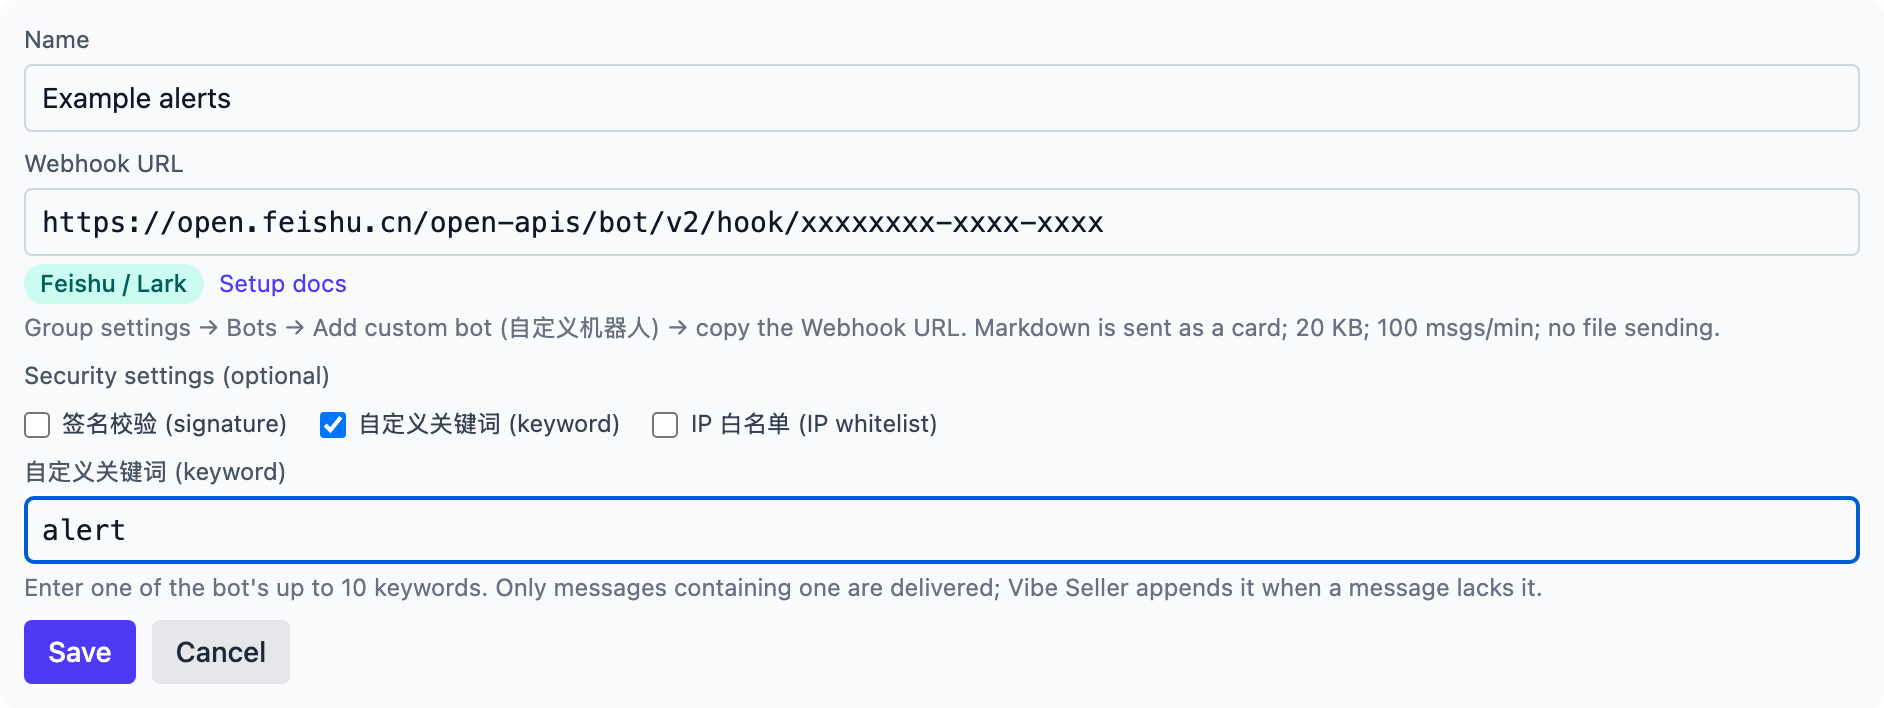
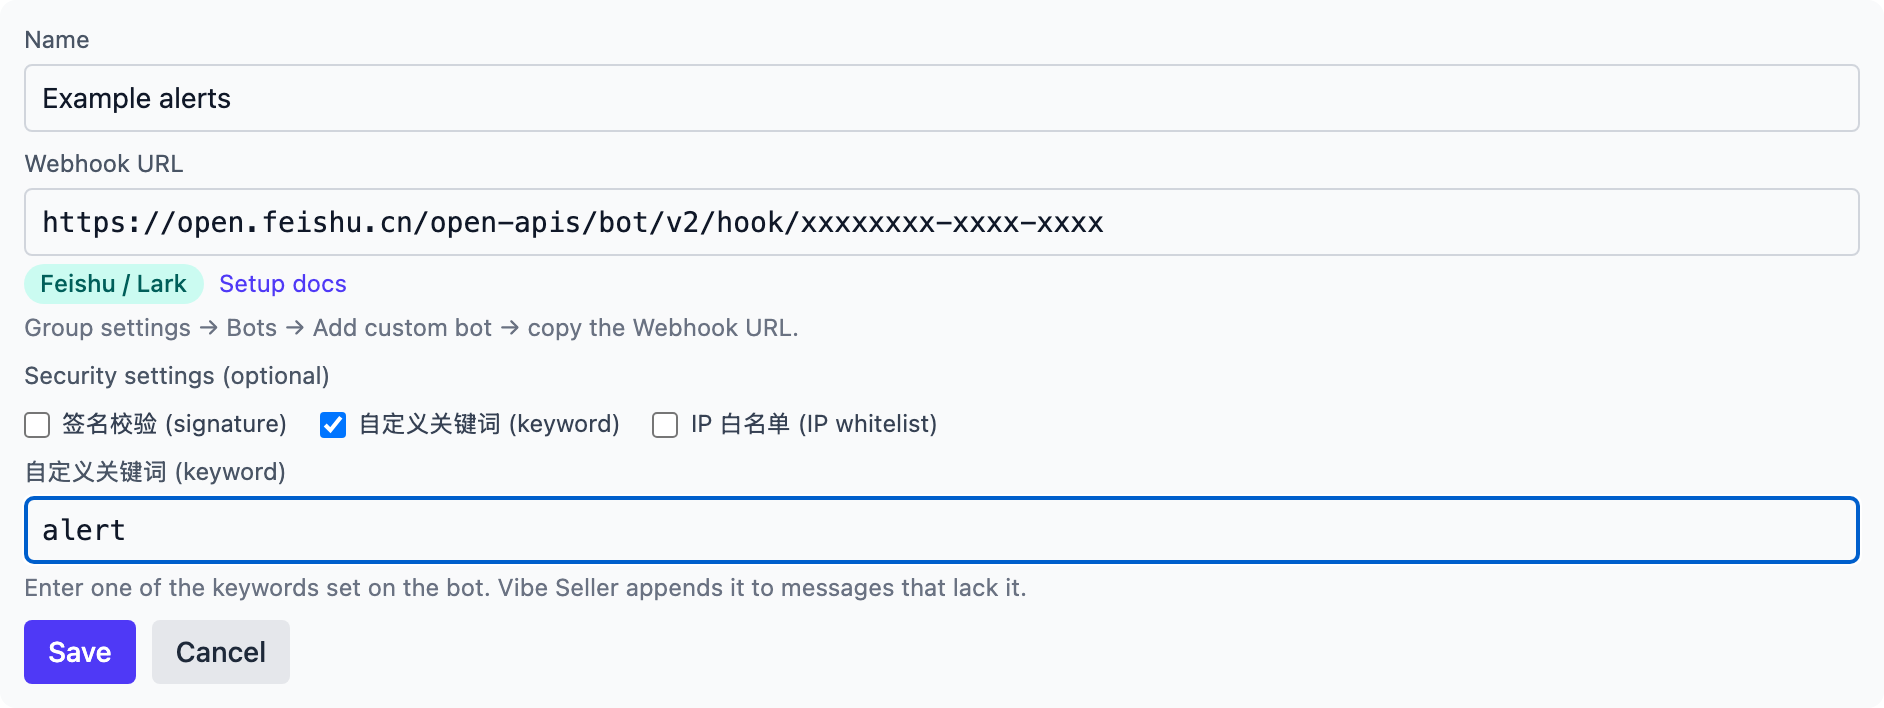
fix(chat-bots): the form hint says only where to get the URL
Review round 2 on PR #249 (owner: platform trivia in the form — size
limits, markdown titles, "URL is the credential" — has nothing to do
with the user or Vibe Seller). The per-platform hint under the badge
is now exactly the where-to-copy-the-URL path, zh and en. The security
field hints lost their platform mechanics too (keyword counts, the
timestamp signature, the delivery rule, the allowlist entry shapes) —
what remains is what to paste where and what Vibe Seller does with it.
The docs' limits sections are untouched.

Tests that pinned the old hint text now pin the new spec strings; all
8 chatbots_form_* shots are reshoot from this build (DOM asserted
before capture, Save/Cancel row in the pixels), and every page that
shows one describes what the shot shows, including the badge hint.

Changed region(s): [[0.2463, 0.435, 0.9236, 0.4972], [0.0924, 0.8079, 0.8312, 0.839]]

diff --git a/frontend/src/__tests__/chatBotSection.test.tsx b/frontend/src/__tests__/chatBotSection.test.tsx
@@ -232,9 +232,10 @@ describe('ChatBotSection', () => {
     expect(
       await screen.findByTestId('chat-bot-platform-badge'),
     ).toHaveTextContent('DingTalk')
-    // Per-platform hint replaces the generic one.
-    expect(screen.getByTestId('chat-bot-url-hint').textContent).toMatch(
-      /自定义机器人|Add robot/,
+    // Per-platform hint replaces the generic one — and says ONLY where
+    // to get the URL (the owner's spec, no platform trivia).
+    expect(screen.getByTestId('chat-bot-url-hint').textContent).toBe(
+      'Group settings → Bots → Add custom robot → copy the Webhook URL.',
     )
   })
 

diff --git a/docs/chat-bots.md b/docs/chat-bots.md
@@ -72,15 +72,16 @@ Vibe Seller 粘贴并测试。差别只在入口位置和安全设置。
 
 2. 填写**名称**（例如「运营告警」，方便日后一眼认出）；把获取到的
    **Webhook URL** 整段粘贴进去。平台会根据 URL 自动识别并显示标签，
-   旁边还有该平台的说明链接：
-   ![添加机器人：粘贴企业微信 Webhook URL](images/chatbots_form_wecom_zh.png)
+   标签下一行提示去哪里复制 Webhook URL（例如钉钉：「群设置 → 机器人 →
+   添加自定义机器人 → 复制 Webhook URL」），旁边还有该平台的说明链接：
+   ![添加机器人表单：名称 + Webhook URL，没有安全设置一栏，底部是保存/取消](images/chatbots_form_wecom_zh.png)
 
 3. 表单下方只显示**该平台**自己的安全设置。钉钉是
    「安全设置（至少选一项）」——至少勾选你在平台上实际设置的一项
    （机器人同时启用多种时全部勾上），只有勾选项会显示输入栏；飞书是
    「安全设置（可选）」，勾选才显示对应输入栏；企业微信和 Slack 没有
    安全设置一栏：
-   ![添加钉钉机器人：安全设置选加签并粘贴密钥](images/chatbots_form_dingtalk_zh.png)
+   ![钉钉表单：「安全设置（至少选一项）」勾选加签并粘贴密钥，底部是保存/取消](images/chatbots_form_dingtalk_zh.png)
     - **加签 / 签名校验**：把 `SEC` 开头的密钥（钉钉）或飞书给出的
       签名密钥填进勾选项的输入栏。
     - **自定义关键词**：填写你在平台上设置的关键词之一。

diff --git a/docs/chat-bots.en.md b/docs/chat-bots.en.md
@@ -70,9 +70,11 @@ differ only in where the entry lives and which security settings exist.
 
 2. Give it a **name** (e.g. "Ops Alerts") and paste the whole
    **Webhook URL**. The platform is detected from the URL and shown as
-   a badge, with a link to the platform's docs:
+   a badge; under it a one-line hint says where to copy the Webhook URL
+   from (e.g. DingTalk: "Group settings → Bots → Add custom robot →
+   copy the Webhook URL."), with a link to the platform's docs:
 
-    ![Adding a bot: pasting the WeCom webhook URL](images/chatbots_form_wecom_en.png)
+    ![The add-bot form: name + Webhook URL, no security section, Save/Cancel at the bottom](images/chatbots_form_wecom_en.png)
 
 3. The form below shows ONLY that platform's own security settings.
    DingTalk gets "Security settings (pick at least one)" — tick at least
@@ -89,7 +91,7 @@ differ only in where the entry lives and which security settings exist.
       fill in — the allowlist is set on the platform's side; ticking it
       records that you use it.
 
-    ![Adding a DingTalk bot: pick 加签 and paste the secret](images/chatbots_form_dingtalk_en.png)
+    ![The DingTalk form: 加签 ticked under "Security settings (pick at least one)", secret pasted, Save/Cancel at the bottom](images/chatbots_form_dingtalk_en.png)
 
 4. Click **Save**. The bot appears in the list with its platform badge,
    a "signed" tag and its keyword; the webhook URL is masked:

diff --git a/docs/chat-bots-feishu.md b/docs/chat-bots-feishu.md
@@ -43,7 +43,7 @@ description: 飞书（Lark）群机器人的创建步骤：自定义机器人入
    - **自定义关键词**：填写你设置的关键词之一（不含它的消息由服务端自动补上）；
    - **IP 白名单**：什么都不用填——白名单在飞书侧设置，这里只做记录。
 
-   ![添加飞书机器人：可选安全设置，勾选自定义关键词](images/chatbots_form_feishu_zh.png)
+   ![飞书表单：「安全设置（可选）」勾选自定义关键词，底部是保存/取消](images/chatbots_form_feishu_zh.png)
 
 3. 点击「保存」，机器人出现在列表里；
 4. 点击这条机器人上的「测试」，行下方出现绿色提示、群里收到测试消息即为接通：

diff --git a/docs/chat-bots-slack.md b/docs/chat-bots-slack.md
@@ -33,7 +33,7 @@ description: Slack 群机器人的创建步骤：新建 App、打开 Incoming We
 2. 填写**名称**（例如「运营告警」），把刚才复制的 **Webhook URL** 整段粘贴进去，
    平台会自动识别为 Slack——URL 本身就是凭证，表单没有安全设置一栏：
 
-   ![添加 Slack 机器人：粘贴 Incoming Webhook URL](images/chatbots_form_slack_zh.png)
+   ![Slack 表单：名称 + Webhook URL，没有安全设置一栏，底部是保存/取消](images/chatbots_form_slack_zh.png)
 
 3. 点击「保存」，机器人出现在列表里；
 4. 点击这条机器人上的「测试」，行下方出现绿色提示、频道里收到测试消息即为接通：

diff --git a/docs/example-email-wecom.en.md b/docs/example-email-wecom.en.md
@@ -34,7 +34,7 @@ Open **Settings → Integrations → Chat bots** and click **Add Bot**.
 - **Webhook URL**: paste the whole address you copied from the group — the
   platform is detected from it and shown as a WeCom badge.
 
-![Adding a bot: pasting the WeCom webhook URL](images/chatbots_form_wecom_en.png)
+![The WeCom form: name + Webhook URL, no security section, Save/Cancel at the bottom](images/chatbots_form_wecom_en.png)
 
 Click **Save**, then **Test** on that bot. The group receives
 `Vibe Seller: chat bot connection test ✅`, which means the address works.

diff --git a/docs/chat-bots-feishu.en.md b/docs/chat-bots-feishu.en.md
@@ -55,7 +55,7 @@ Good to know:
    - **IP 白名单 (IP whitelist)**: nothing to fill in — the allowlist is
      set in Feishu; this only records that you use it.
 
-   ![Adding a Feishu bot: optional security settings, 自定义关键词 ticked](images/chatbots_form_feishu_en.png)
+   ![The Feishu form: 自定义关键词 ticked under "Security settings (optional)", Save/Cancel at the bottom](images/chatbots_form_feishu_en.png)
 
 3. Click **Save** — the bot appears in the list;
 4. Click **Test** on the bot's row: a green line appears and the group

diff --git a/docs/chat-bots-dingtalk.en.md b/docs/chat-bots-dingtalk.en.md
@@ -53,7 +53,7 @@ Good to know:
    - **IP 地址段 (IP range)**: nothing to fill in — the range is set in
      DingTalk; this only records that you use it.
 
-   ![Adding a DingTalk bot: pick 加签 and paste the secret](images/chatbots_form_dingtalk_en.png)
+   ![The DingTalk form: 加签 ticked under "Security settings (pick at least one)", secret pasted, Save/Cancel at the bottom](images/chatbots_form_dingtalk_en.png)
 
 3. Click **Save** — the list row shows the platform badge, whether the bot
    is signed, and its keyword;

diff --git a/docs/chat-bots-slack.en.md b/docs/chat-bots-slack.en.md
@@ -38,7 +38,7 @@ Good to know:
    just copied — the platform is detected as Slack; the URL alone is the
    credential, so the form has no security section.
 
-   ![Adding a Slack bot: pasting the Incoming Webhook URL](images/chatbots_form_slack_en.png)
+   ![The Slack form: name + Webhook URL, no security section, Save/Cancel at the bottom](images/chatbots_form_slack_en.png)
 
 3. Click **Save** — the bot appears in the list;
 4. Click **Test** on the bot's row: a green line appears and the channel
